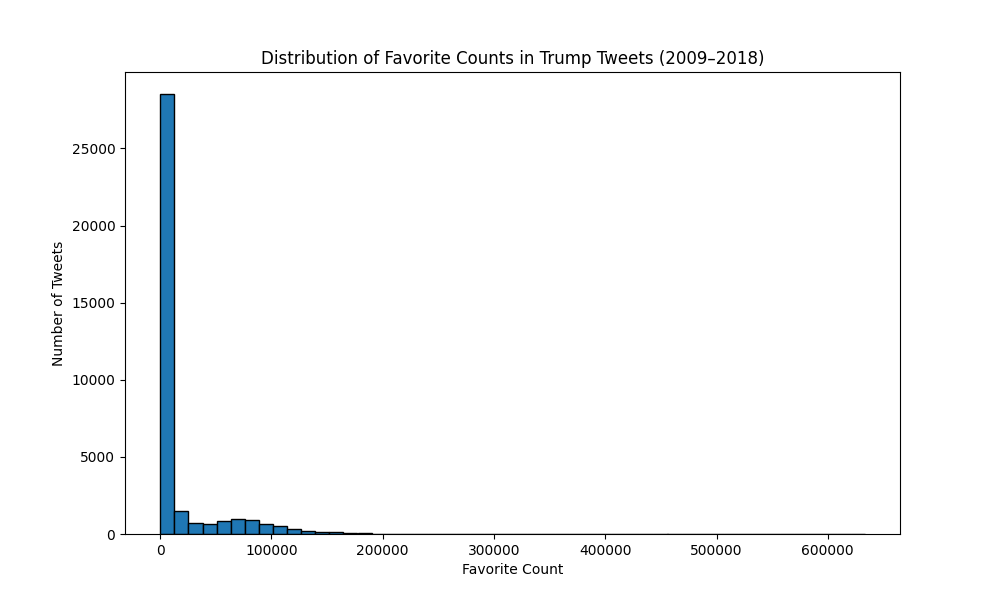
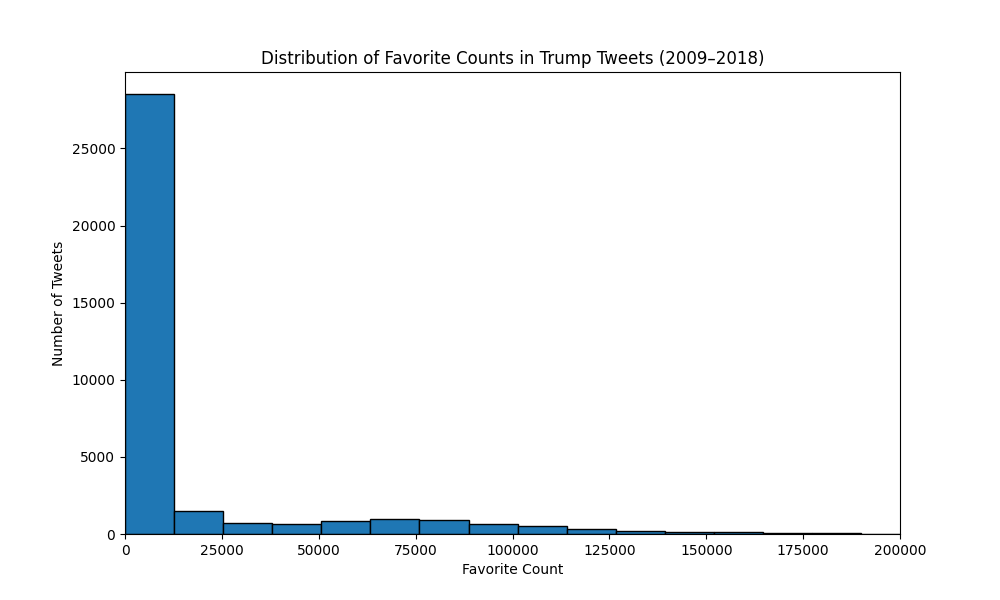
changed likes histogram

Changed region(s): [[0.124, 0.15, 0.93, 0.93]]

diff --git a/lab_tweets.py b/lab_tweets.py
@@ -166,6 +166,7 @@ word_counts = {
 }
 
 favorite_counts = []
+most_likes = 0
 for i, tweet in enumerate(data):
     for word in word_counts:
         try:
@@ -175,15 +176,10 @@ for i, tweet in enumerate(data):
             if word.lower() in tweet['full_text'].lower():
                 word_counts[word] += 1
     favorite_counts.append(tweet['favorite_count'])
+    if tweet['favorite_count'] > most_likes:
+        most_likes = tweet['favorite_count']
+        fav_tweet = tweet['text']
 
-
-# for tweet in data:
-#     text = tweet.get('full_text') or tweet.get('text') or ""
-#     lower_text = text.lower()
-#     for word in word_counts:
-#         if word.lower() in lower_text:
-#             word_counts[word] += 1
-#     favorite_counts.append()
 pprint.pprint(word_counts)
 
 
@@ -215,8 +211,11 @@ plt.hist(favorite_counts, bins=50, edgecolor='black')
 plt.xlabel("Favorite Count")
 plt.ylabel("Number of Tweets")
 plt.title("Distribution of Favorite Counts in Trump Tweets (2009–2018)")
+plt.xlim(0, 200000)
 plt.savefig("favorite_hist.png")
 plt.close()
+
+
 
 # Write to README.md
 with open("README.md", "w") as readme:
@@ -227,4 +226,5 @@ with open("README.md", "w") as readme:
     readme.write("![Keyword Bar Graph](plot.png)\n")
     readme.write("\nThe histogram below shows the distribution of how many favorites Trump's tweets received.\n\n")
     readme.write("![Favorite Count Histogram](favorite_hist.png)\n")
-
+    readme.write("\nTrumps most liked tweet:\n")
+    readme.write(fav_tweet)

diff --git a/README.md b/README.md
@@ -18,3 +18,6 @@ The table below shows how frequently each keyword appeared in Trump's tweets fro
 The histogram below shows the distribution of how many favorites Trump's tweets received.
 
 ![Favorite Count Histogram](favorite_hist.png)
+
+Trumps most liked tweet:
+Such a beautiful and important evening! The forgotten man and woman will never be forgotten again. We will all come together as never before
